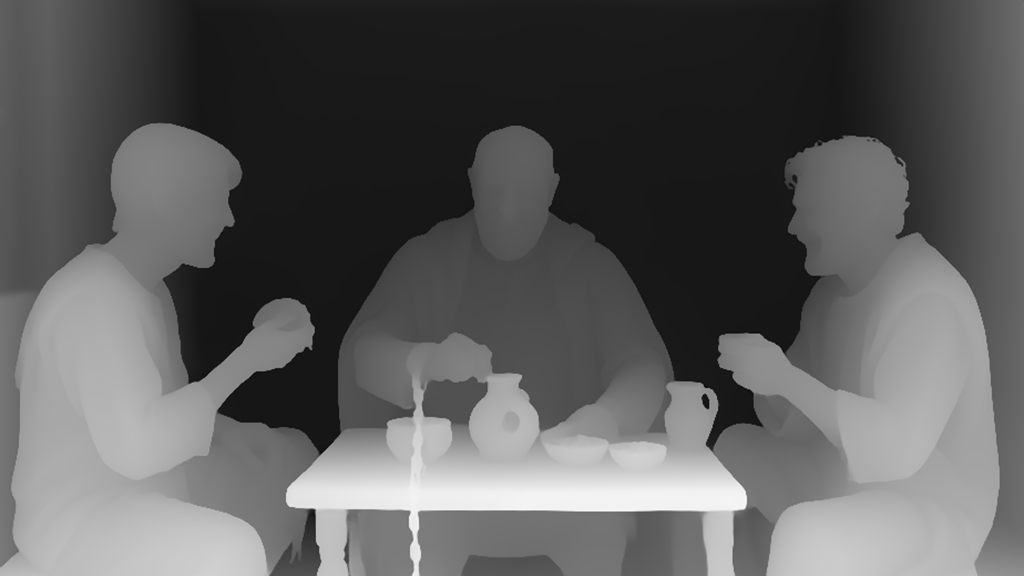
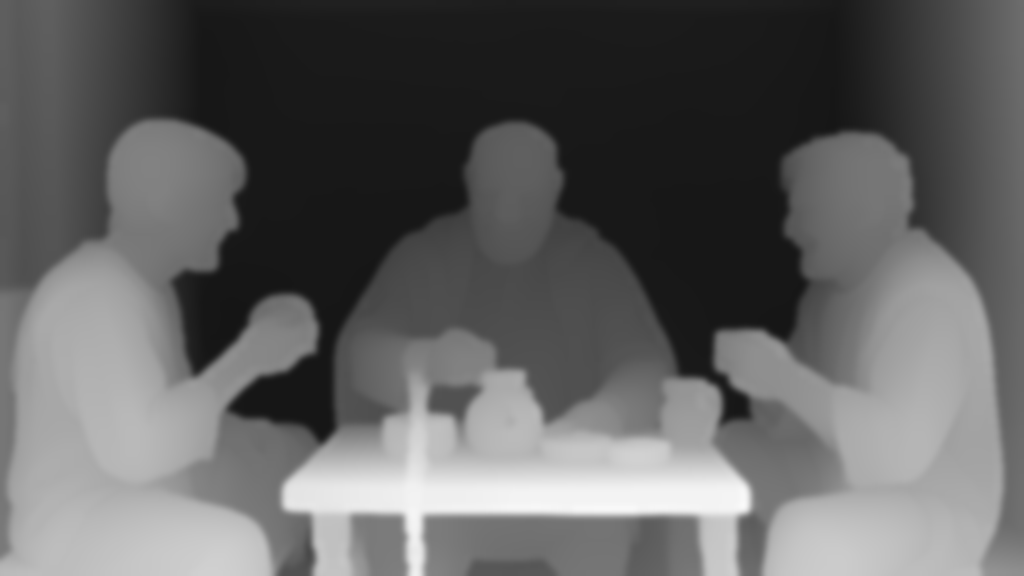
Watch: fix parallax ghost edges (dilated, softened depth maps; layered inverse lookup in the shader)

diff --git a/site/assets/watch.js b/site/assets/watch.js
@@ -236,11 +236,15 @@
     if (!gl) return null;
     layer.appendChild(c);
     var vs = 'attribute vec2 p;varying vec2 v;void main(){v=p*.5+.5;v.y=1.-v.y;gl_Position=vec4(p,0.,1.);}';
+    // Parallax as an inverse lookup: for each screen pixel, step from the nearest depth layer to the farthest and take
+    // the first layer whose source pixel is at least that near. Near things then cover far things cleanly (no ghost
+    // edges); the 24 steps are refined by one linear step between the last two layers.
     var fs = 'precision mediump float;varying vec2 v;uniform sampler2D img,dep;uniform vec2 cov;uniform float dolly,orbit;' +
-      'vec2 m(vec2 u){return 1.-abs(1.-mod(u,2.));}' +           // mirror the edges instead of tearing
-      'void main(){vec2 u=(v-.5)*cov+.5;float d=texture2D(dep,u).r;' +
-      'for(int i=0;i<2;i++){vec2 w=(u-.5)/(1.+dolly*(.35+.9*d))+.5;w.x-=orbit*(d-.45);d=texture2D(dep,m(w)).r;}' +
-      'vec2 w=(u-.5)/(1.+dolly*(.35+.9*d))+.5;w.x-=orbit*(d-.45);gl_FragColor=texture2D(img,m(w));}';
+      'vec2 src(vec2 u,float L){return (u-.5-vec2(orbit*(L-.45),0.))/(1.+dolly*(.35+.9*L))+.5;}' +
+      'void main(){vec2 u=(v-.5)*cov+.5;float pl=1.,pd=0.;vec2 s=src(u,0.);' +
+      'for(int i=0;i<=24;i++){float L=1.-float(i)/24.;vec2 c=clamp(src(u,L),0.,1.);float d=texture2D(dep,c).r;' +
+      'if(d>=L){float a=(pd-pl)-(d-L);float t=abs(a)>1e-4?(pd-pl)/a:0.;s=clamp(src(u,mix(pl,L,clamp(t,0.,1.))),0.,1.);break;}pl=L;pd=d;s=c;}' +
+      'gl_FragColor=texture2D(img,s);}';
     function sh(t, s) { var o = gl.createShader(t); gl.shaderSource(o, s); gl.compileShader(o); return o; }
     var pr = gl.createProgram(); gl.attachShader(pr, sh(gl.VERTEX_SHADER, vs)); gl.attachShader(pr, sh(gl.FRAGMENT_SHADER, fs)); gl.linkProgram(pr);
     if (!gl.getProgramParameter(pr, gl.LINK_STATUS)) { layer.removeChild(c); return null; }

diff --git a/site/watch/philemon/index.html b/site/watch/philemon/index.html
@@ -19,7 +19,7 @@
 </head>
 <body>
 <noscript><p style="padding:2rem">This page needs JavaScript. <a href="/read/philemon" style="color:#d4b066">Read Philemon</a>.</p></noscript>
-<script>window.WATCH={"book": "philemon", "manifest": "manifest.json?v=1791919266"};</script>
-<script src="/assets/watch.js?v=2"></script>
+<script>window.WATCH={"book": "philemon", "manifest": "manifest.json?v=1791919818"};</script>
+<script src="/assets/watch.js?v=3"></script>
 </body>
 </html>

diff --git a/scripts/build_epistle.py b/scripts/build_epistle.py
@@ -15,13 +15,14 @@ A video shot without its video.mp4 yet plays as its keyframe with a slow push-in
 """
 import argparse, html, json, os, re, shutil, time
 import yaml
-from PIL import Image
+from PIL import Image, ImageFilter
 
 ROOT = os.path.dirname(os.path.dirname(os.path.abspath(__file__)))
 SITE = os.path.join(ROOT, 'site')
 WORK = os.path.expanduser('~/halo-images/visual-bible')
 IMG_W = 2048          # keyframes are 2560x1440; 2048 keeps room for pans and parallax at a phone-friendly size
 DEPTH_W = 1024
+DEPTH_V = 2          # bump when the depth preprocessing changes, so every depth map is rebuilt
 MIN_SHOT = 1.2        # seconds; cues never squeeze a shot shorter than this
 
 
@@ -37,11 +38,11 @@ STAMPS = {}   # site file -> "source path:mtime" it was built from; kept in the 
 
 def stale(dst, src):
     """True when dst was not built from this exact source file."""
-    return not os.path.exists(dst) or STAMPS.get(os.path.relpath(dst, SITE)) != f'{src}:{int(os.path.getmtime(src))}'
+    return not os.path.exists(dst) or STAMPS.get(os.path.relpath(dst, SITE)) != f'{src}:{int(os.path.getmtime(src))}:{DEPTH_V}'
 
 
 def mark(dst, src):
-    STAMPS[os.path.relpath(dst, SITE)] = f'{src}:{int(os.path.getmtime(src))}'
+    STAMPS[os.path.relpath(dst, SITE)] = f'{src}:{int(os.path.getmtime(src))}:{DEPTH_V}'
 
 
 def save_atomic(im, out, **kw):
@@ -172,8 +173,11 @@ def main():
                 im = Image.open(dp)
                 im = im.point(lambda x: x / 256).convert('L') if im.mode.startswith('I') else im.convert('L')
                 im = im.resize((DEPTH_W, round(im.height * DEPTH_W / im.width)), Image.BICUBIC)
+                # grow near objects a few pixels past their edges, then soften: the parallax shader then moves a
+                # person's whole outline with them instead of leaving a ghost edge on the background
+                im = im.filter(ImageFilter.MaxFilter(9)).filter(ImageFilter.GaussianBlur(3))
                 save_atomic(im, dst, format='PNG', optimize=True); mark(dst, dp)
-            rec['depth'] = f'depth/{sid}.png?v={int(os.path.getmtime(dp))}'
+            rec['depth'] = f'depth/{sid}.png?v={int(os.path.getmtime(dp))}{DEPTH_V}'
         if s['type'] == 'video' and os.path.exists(vid):
             dst = os.path.join(out, 'video', f'{sid}.mp4')
             if stale(dst, vid):
@@ -224,7 +228,7 @@ def write_page(out, m):
 <body>
 <noscript><p style="padding:2rem">This page needs JavaScript. <a href="/read/{m['book']}" style="color:#d4b066">Read {html.escape(m['short'])}</a>.</p></noscript>
 <script>window.WATCH={json.dumps({'book': m['book'], 'manifest': 'manifest.json?v=' + str(int(time.time()))})};</script>
-<script src="/assets/watch.js?v=2"></script>
+<script src="/assets/watch.js?v=3"></script>
 </body>
 </html>
 '''
